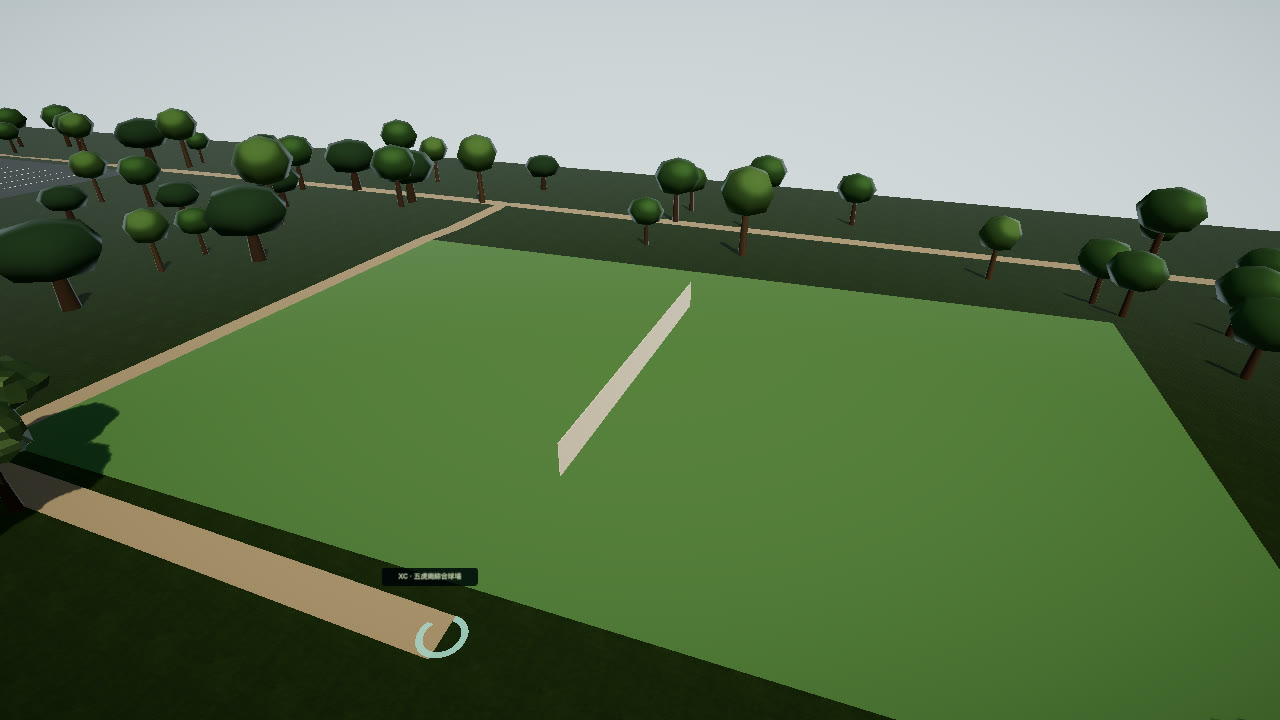
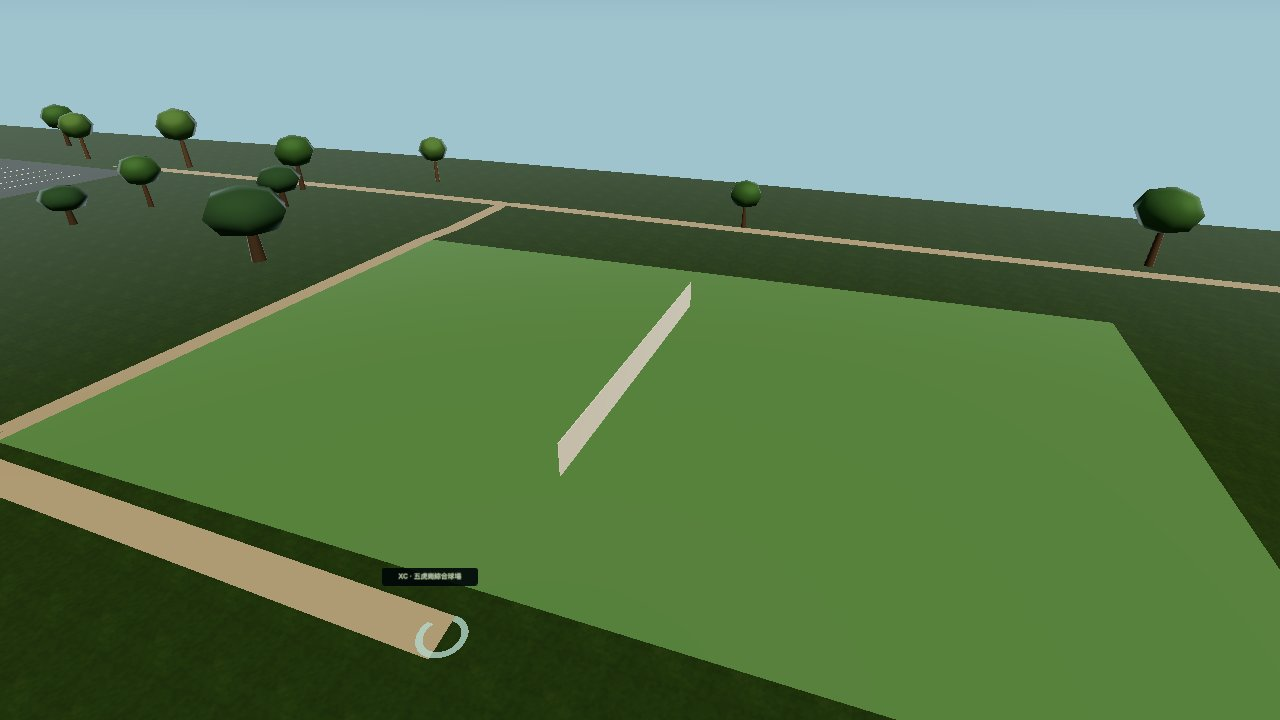
Record the court-clearing integration checks.
Scattered trees stay 3 m outside the courts, the track, and the parking rows. The Wuhu grass is open.

diff --git a/docs/integration/HANDOFF.md b/docs/integration/HANDOFF.md
@@ -4,18 +4,18 @@
 
 ## 現在
 
-- 這次只把雲端契約對裝備欄的檢查接上。接到 `origin/main` `a91b3bd`。遊戲程式是 `9d37fc9`。
-- 存檔裡的 `loadout`、`gear`、隔離物品和手持設施要符合既有背包。白名單以外的欄位不收。沒有這些欄位的舊存檔仍可上傳。
-- 靜態產物仍是 `AdventureApp-BLw17Z0-.js`。跨系統路線仍走 `http://127.0.0.1:8144/`，雲端伺服器用這份契約。登入同步 revision 1；`revision_conflict`；斷線時雲端經驗停在 47；登出 401。`pageErrors` 空。
-- PR #122 現在 head 是 `48b1ac6`。不要單獨合併，也不要帶進 `docs/full-integration`。沈酌的提示已經在主遊戲。三隻異象的說法只在他們的路線腳本裡。
+- 這次把散佈的樹移出球場、田徑場和停車場。接到 `origin/main` `d32e714`。遊戲程式是 `a26b87d`。
+- 外緣再留 3 m。五虎崗草皮是空的。1280×720 與 390×780 都看得到。植株位置仍是 estimated。這一輪不靠 PR #135 的球場線。
+- 跨系統路線在 `http://127.0.0.1:8146/` 通過：大門經驗 20、筆記 19；補給後經驗 44、筆記 21、學期期中；突襲小考 65→45；第二客戶端看到期中；`revision_conflict`；斷線時雲端經驗停在 47；登出 401。`pageErrors` 空。
+- PR #122 仍是 `48b1ac6`。不要單獨合併，也不要帶進 `docs/full-integration`。
 
-## 本輪已驗證（雲端裝備契約）
+## 本輪已驗證（球場不種樹）
 
-`node --test scripts/cloud-gear-contract.test.mjs` 通過。`npm test` 309 通過。`node --experimental-transform-types scripts/integration-route.mjs` 走 `http://127.0.0.1:8144/`。靜態產物沒有改。
+`node --test scripts/court-clearing.test.mjs` 通過。`npm test` 310 通過。`node --experimental-transform-types scripts/integration-route.mjs` 走 `http://127.0.0.1:8146/`。幀時間是 SwiftShader。植株位置是 estimated。
 
 ## 下一步
 
-先 `git fetch`。這份契約已在 `main`，遊戲程式是 `9d37fc9`。靜態產物若仍是 `AdventureApp-BLw17Z0-.js` 就不要為了對齊 SHA 再跑一次跨系統路線。PR #32 的 `1fc5887` 仍不合併。整合 PR 是 #144。來源 `a76918e` 不是祖先，不要單獨合併 PR #122。PR #143、#141、#138、#139、#131、#137、#128、#133、#129、#110、#108、#107、#105、#102、#101、#99、#97、#96、#93、#91、#90、#88、#86、#85、#82、#80、#79、#77、#75、#73、#72、#70、#68、#67、#65、#63、#61、#59、#56、#54、#53、#51 的程式已經在更早的整合裡，也不要再單獨合併。PR #122 剩下的是 `docs/full-integration`、他們的路線腳本，以及窄畫面 `.ad-interact` 的 `bottom`。不要帶那些。下一項看 PR #140（`5739cd3`，樹不要落在球場和跑道上）靠不靠 PR #135 的球場線，以及 PR #142（`f900c8c`，雨天把球場和跑道變暗）。然後是五虎球場（PR #135，`06a75dc`）、坡道欄杆（PR #132，`1dce114`）、海事博物館船首（PR #127，`d0fd98b`）、會文館（PR #111，`412b130`）、司令臺台面（PR #113，`f2750c7`）、低畫質行人（PR #115，`9672ff3`）、美術傳輸預算（PR #116，`9a3d594`）、宮燈大道四個時段（PR #118，`266e4b7`）、宮燈鏡頭（PR #121，`3ce5f17`）、路燈燈頭（PR #124，`2b45515`）。先看它們目前的 head，再各自整合，不要單獨合併。三角形仍用 `7507c59` 那次重測。
+先 `git fetch`。樹清場合併後，遊戲程式是 `a26b87d`。沒有再變就不要重跑跨系統路線，也不要為了對齊 SHA 再寫一筆。PR #32 的 `1fc5887` 仍不合併。來源 `5739cd3` 不是祖先，不要單獨合併 PR #140。不要單獨合併 PR #122。PR #144、#143、#141、#138、#139、#131、#137、#128、#133、#129、#110、#108、#107、#105、#102、#101、#99、#97、#96、#93、#91、#90、#88、#86、#85、#82、#80、#79、#77、#75、#73、#72、#70、#68、#67、#65、#63、#61、#59、#56、#54、#53、#51 的程式已經在更早的整合裡，也不要再單獨合併。下一項是雨天把球場和跑道變暗（PR #142，`f900c8c`），它不靠球場線，但和 PR #135 都改 `ContextStructures.tsx`。接著是五虎球場畫線（PR #135，`06a75dc`）、坡道欄杆（PR #132，`1dce114`）、海事博物館船首（PR #127，`d0fd98b`）、會文館（PR #111，`412b130`）、司令臺台面（PR #113，`f2750c7`）、低畫質行人（PR #115，`9672ff3`）、美術傳輸預算（PR #116，`9a3d594`）、宮燈大道四個時段（PR #118，`266e4b7`）、宮燈鏡頭（PR #121，`3ce5f17`）、路燈燈頭（PR #124，`2b45515`）。先看它們目前的 head，再各自整合，不要單獨合併。三角形仍用 `7507c59` 那次重測。
 
 INT-01 維持不動。不要新增學期選擇，也不要做第二套獎勵帳。
 

diff --git a/docs/integration/STATUS.md b/docs/integration/STATUS.md
@@ -1,13 +1,13 @@
 # 整合狀態
 
-更新：2026-11-12。雲端存檔會檢查背包上的裝備欄、裝備實例、隔離物品和手持設施。沒有這些欄位的舊存檔仍可上傳。靜態產物仍是 `AdventureApp-BLw17Z0-.js`。
+更新：2026-11-12。散佈的樹不再種進球場、田徑場和停車場，外緣留 3 m。五虎崗草皮是空的。植株位置仍是估計的。幀時間仍是 SwiftShader。
 本文件只記實際程式、PR 與本輪驗收。不把 M1 或 M2 當成整款遊戲完成，也不以 PR 或文件數量估算完成率。
 
 ## 三條線
 
 | 線 | 目前成果 | 開放 PR | 狀態 |
 | --- | --- | --- | --- |
-| 美術與場景 | 圖書館前的坡道升到台基，走路高度和坡面是同一個面。路燈仍停在牆外。 | 來源 PR #134 `75128e0`。整合 PR #143 | `merged` |
+| 美術與場景 | 散佈的樹留在球場、田徑場和停車場外面。五虎崗草皮是空的。圖書館坡道仍可走。 | 來源 PR #140 `5739cd3`。整合 PR 待記 | `verified` |
 | 後端 | 雲端存檔接受既有背包的 `loadout`、`gear`、隔離物品和手持設施，並拒絕白名單以外的欄位。沒有這些欄位的舊存檔仍可上傳。 | 來源 `a76918e`。整合 PR #144 | `merged` |
 | 內容 | 十二名虛構的教授與系主任可以在估計的崗位交談。跨學院的選擇會改後面的句子。獎勵仍進既有背包，而且只記一次。 | 來源 PR #131 `246eadf`。整合 PR #139 | `merged` |
 
@@ -15,15 +15,15 @@
 
 ## 本輪範圍
 
-雲端存檔會檢查 `tamkang-rpg-v2` 裡已經在寫的裝備欄、裝備實例、隔離物品和手持設施。裝備欄只留工具、配件、背包。裝備實例最多 24，品質只允許 plain 與 fine。隔離數量是 1 到 99。手持設施要有 id、種類、座標和至少 1 點耐久。多出來的欄位會被拒絕。沒有這些欄位的舊存檔仍可上傳。靜態產物沒有改，仍是 `AdventureApp-BLw17Z0-.js`。圖書館坡道留在上一輪。
+散佈的樹若落在球場、田徑場或停車場裡面，或外緣 3 m 內，就不種。五虎崗草皮上沒有樹幹。1280×720 與 390×780 都看得到空的草皮，樹在場外。植株位置仍是 estimated。這一輪不靠 PR #135 的球場線。圖書館坡道留著。
 
 ## 路線
 
 | 項目 | 狀態 |
 | --- | --- |
-| 已製作 | 雲端契約檢查既有背包的裝備欄、裝備實例、隔離物品和手持設施 |
-| 已驗證 | `npm test` 309 通過。跨系統路線仍走 `http://127.0.0.1:8144/`，因為靜態產物沒有改。登入同步 revision 1。`pageErrors` 空 |
-| 已合併 | 是。遊戲程式 `9d37fc9`。整合 PR #144。`main` 未受保護、沒有必須的 check |
+| 已製作 | 散佈的樹留在球場、田徑場和停車場外緣 3 m 外 |
+| 已驗證 | 靜態頁 `http://127.0.0.1:8146/`。1280×720 與 390×780 看得到五虎崗空草皮。`npm test` 310 通過。跨系統路線在同一站，`pageErrors` 空 |
+| 已合併 | 否。遊戲程式 `a26b87d`。整合 PR 待記 |
 | 已部署 | 否 |
 
 ## 尚未完成的遊戲範圍

diff --git a/docs/integration/VALIDATION.md b/docs/integration/VALIDATION.md
@@ -645,6 +645,14 @@ PR #122 的 head 在這輪又改到 `48b1ac6`。和 `main` 比，遊戲程式沒
 
 跨系統路線仍走 `http://127.0.0.1:8144/`，雲端伺服器用的是這份契約。通過：大門經驗 20、筆記 19；補給後經驗 44、筆記 21、學期期中；突襲小考 65→45、經驗停在 44；存檔重載經驗 44、筆記 21、科系 `science-理學院-2`；revision 1；第二客戶端看到期中；`revision_conflict`；斷線時雲端經驗是 47；登出 401。`pageErrors` 空。帶著裝備欄的本機存檔上傳成功。
 
+## 球場不種樹（本輪）
+
+來源 `5739cd3` 接到 `d32e714`。它不讀 PR #135 的球場線，只看既有的球場、田徑場和停車場範圍。美術文件留到第 51 輪，這一輪記成第 52 輪。
+
+散佈的樹若落在這些場地裡面，或外緣 3 m 內，就不種。密度 1 時五虎崗外緣 2.9 m 內也沒有樹。植株位置仍是 estimated。`npm run typecheck` 通過。`npm test` 310 通過。`npm run build:site` 通過，產物 `AdventureApp-D2eWEjyb.js`。
+
+瀏覽器 `http://127.0.0.1:8146/`。1280×720 與 390×780 都看得到五虎崗空草皮，樹在場外。頁面無錯誤。同一站跨系統路線通過：大門經驗 20、筆記 19；補給後經驗 44、筆記 21、學期期中；突襲小考 65→45、經驗停在 44；存檔重載經驗 44、筆記 21、科系 `science-理學院-2`；revision 1；第二客戶端看到期中；`revision_conflict`；斷線時雲端經驗是 47；登出 401。`pageErrors` 空。
+
 ## 本輪沒有驗的項目
 
 - 手機與真機上的雲端面板點擊。本輪在 Node 開發頁讀到面板文字，沒有在手機上操作

diff --git a/docs/integration/CONTRACTS.md b/docs/integration/CONTRACTS.md
@@ -70,7 +70,7 @@ URL 帶內容雜湊。幾何與 atlas 共享。卸載只走 `releaseArtInstance`
 
 教授與系主任也走這份存檔和既有 `grantQuestReward`。十二名都是虛構角色，崗位是門口外推的估計位置。同一個任務只付一次。`MAIN_INTEGRATION` 仍是 false。
 
-路燈中心若落在實體裡，會沿最近的一面推到牆外 1.2 m。圖書館名牌朝南，貼在南牆外側。燈位仍是 estimated。圖書館前的坡道從廣場升約 1.05 m 到台基，人走在這道坡上，坡面網格用同一個高度。坡度仍是 estimated。
+路燈中心若落在實體裡，會沿最近的一面推到牆外 1.2 m。圖書館名牌朝南，貼在南牆外側。燈位仍是 estimated。圖書館前的坡道從廣場升約 1.05 m 到台基，人走在這道坡上，坡面網格用同一個高度。坡度仍是 estimated。散佈的樹不種進球場、田徑場和停車場，外緣再留 3 m。植株位置仍是 estimated。
 
 同一條高畫質路線在遊戲程式 `7507c59` 的靜態頁重測：標題 1,204,683、戶外 1,562,527、戰鬥 1,495,745、返回 1,437,689，都低於 1.6 M。室內 46,548。幀時間是這台 SwiftShader，不是手機或 RTX 3060。手機圖示只改 CSS，沒有重測三角形。
 
